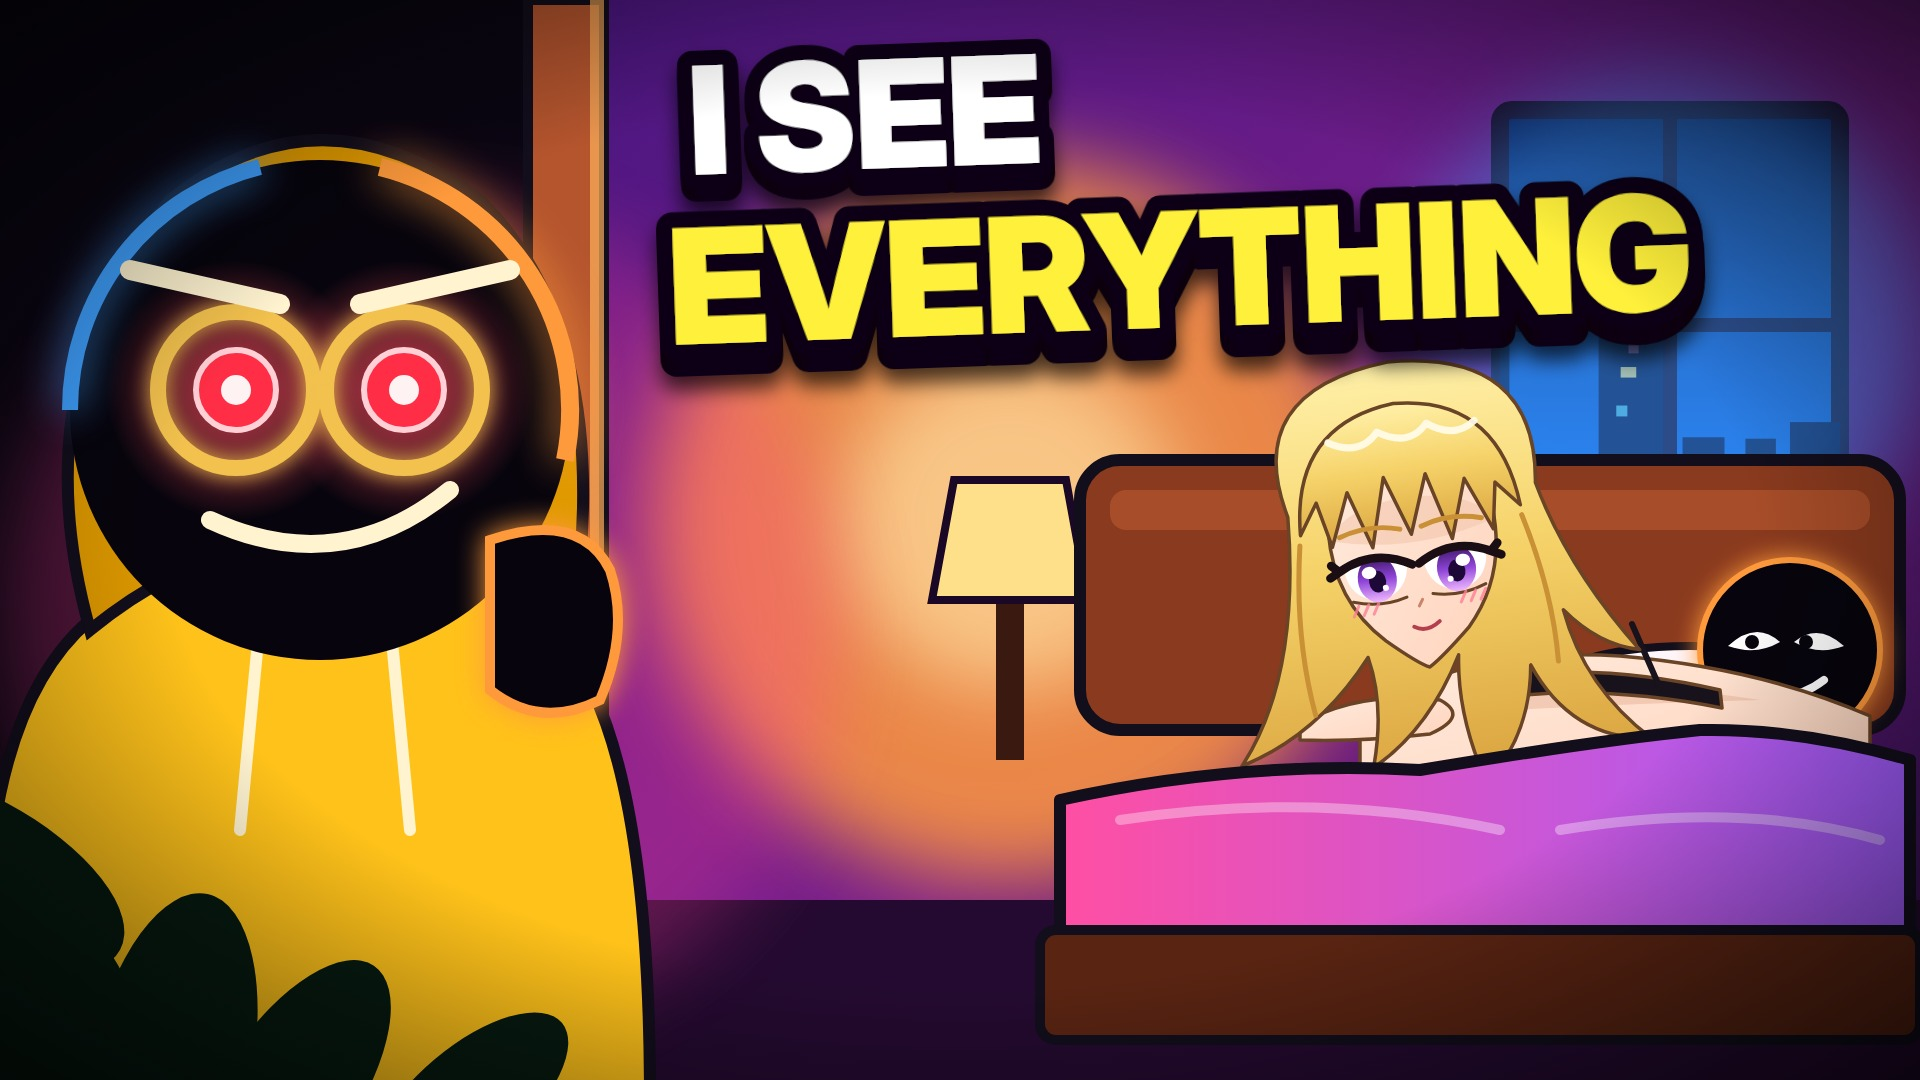
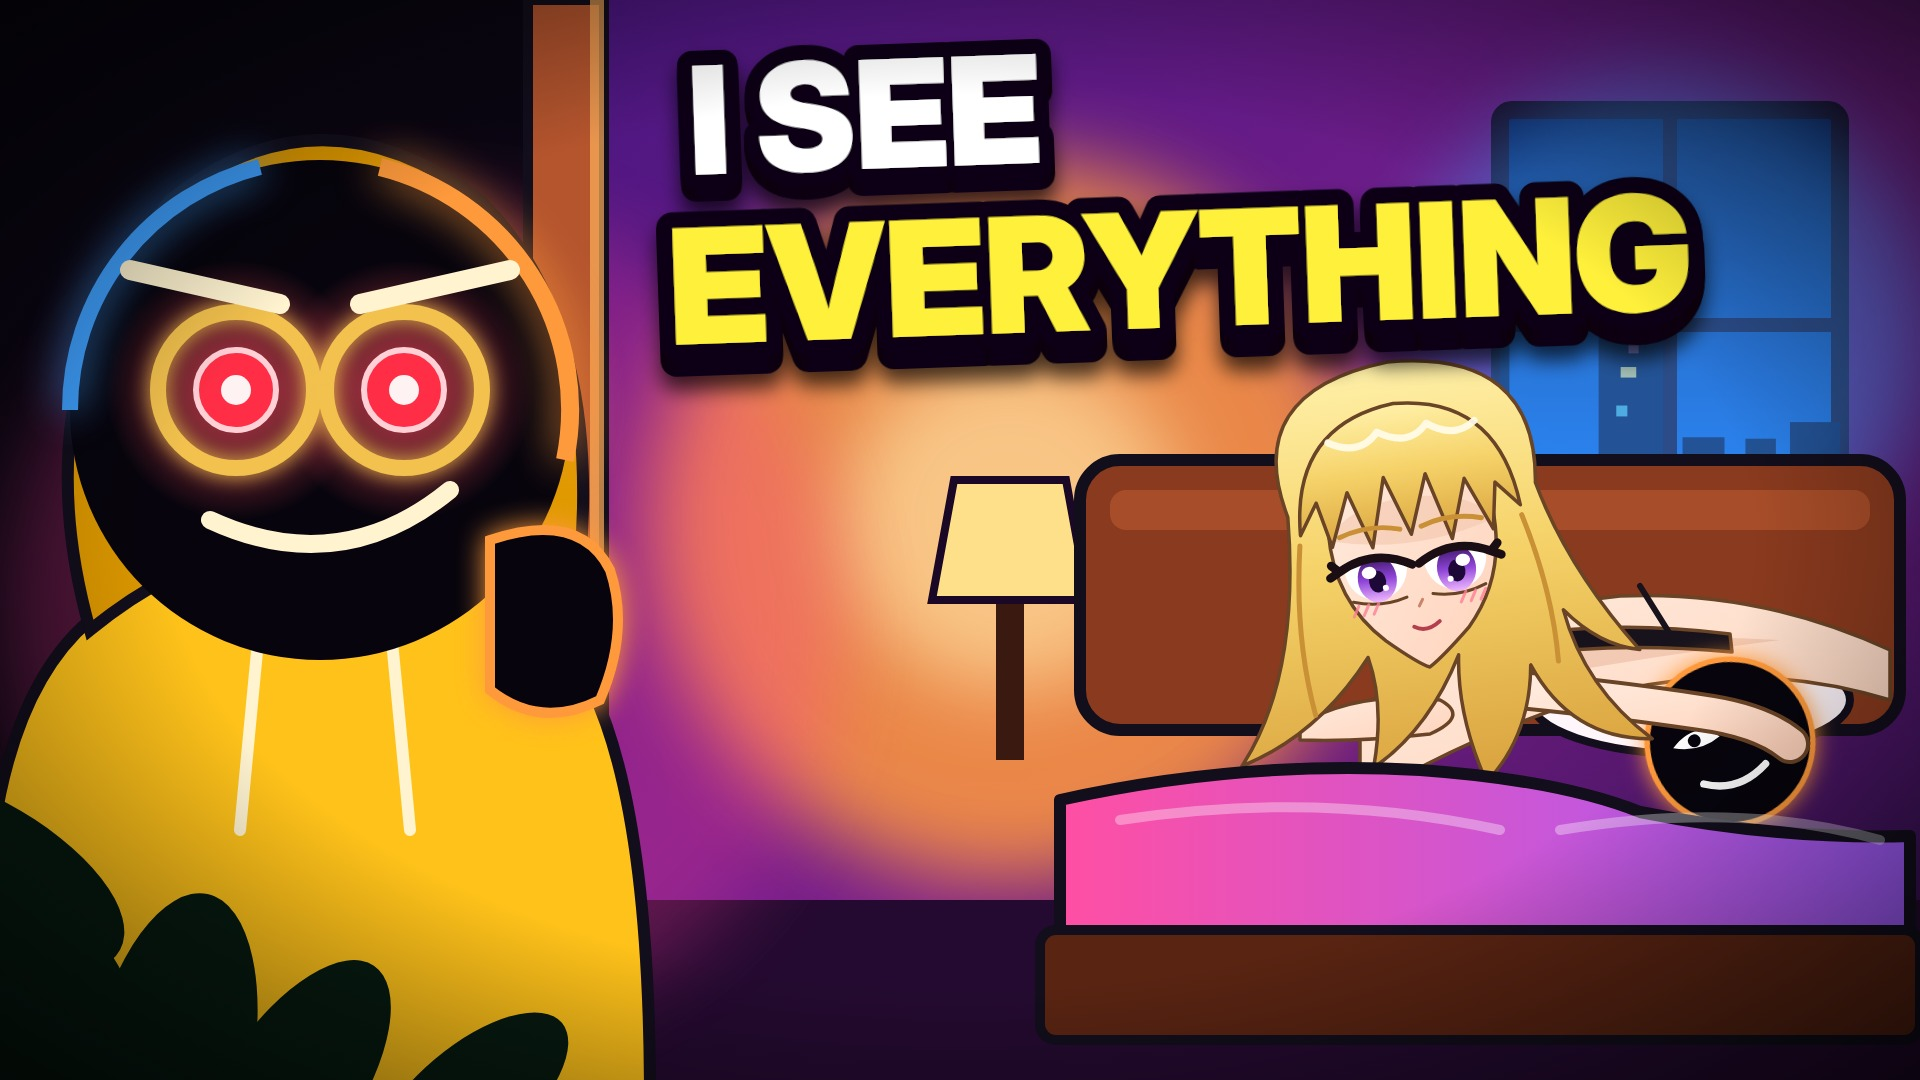
016 peek thumbnail: she lies over him, arm across him
Claude-Session: https://claude.ai/code/session_019ai2m2MxcJnxMHWqzPuaSF

Changed region(s): [[0.75, 0.4889, 1.0, 0.7944]]

diff --git a/episodes/016-invisible/thumb4.html b/episodes/016-invisible/thumb4.html
@@ -30,13 +30,6 @@ const th_bed=`
   <radialGradient id="gIris" cx="50%" cy="35%" r="70%"><stop offset="0" stop-color="#E8A0FF"/><stop offset=".55" stop-color="#8A3BD8"/><stop offset="1" stop-color="#3A0F66"/></radialGradient>
   <linearGradient id="gSkin" x1="0" y1="0" x2="1" y2="1"><stop offset="0" stop-color="#FFE3CC"/><stop offset="1" stop-color="#EDB48C"/></linearGradient>
  </defs>
- <!-- him: shadow stickman lying on the pillow, smirking at the door -->
- <g transform="translate(1790,650)">
-  <circle r="90" fill="#07040D" stroke="${W_}" stroke-width="6" style="filter:drop-shadow(0 0 12px ${W_})"/>
-  <path d="M-62 -4 Q-34 -30 -10 -8 Q-34 6 -62 -4Z M54 -4 Q28 -28 4 -8 Q28 6 54 -4Z" fill="#fff"/>
-  <circle cx="-38" cy="-8" r="7" fill="#07040D"/><circle cx="16" cy="-8" r="7" fill="#07040D"/>
-  <path d="M-36 40 Q0 56 34 30" stroke="#fff" stroke-width="8" fill="none" stroke-linecap="round"/>
- </g>
 
  <!-- her: Japanese anime style. Thin warm line art, cel shading, big half-lidded eyes, spiky bangs + shine band -->
  <defs>
@@ -46,13 +39,23 @@ const th_bed=`
  </defs>
  <!-- body lying on her stomach across the bed: bare back, thin black bra band -->
  <g stroke="#6A4426" stroke-width="3.5" stroke-linejoin="round" stroke-linecap="round">
-  <path d="M1360 712 Q1470 646 1620 656 Q1760 668 1870 716 L1870 800 L1360 800Z" fill="url(#aSkin)"/>
-  <path d="M1470 690 Q1600 676 1760 700 Q1620 704 1470 712Z" fill="#E9B79C" stroke="none" opacity=".55"/>
-  <path d="M1540 664 Q1600 694 1660 690" fill="none" opacity=".6"/>
-  <path d="M1500 678 Q1600 662 1720 690 L1722 708 Q1600 684 1498 698Z" fill="#17121C"/>
-  <path d="M1532 676 L1508 616 M1660 688 L1632 624" fill="none" stroke="#17121C" stroke-width="6"/>
+  <path d="M1360 712 Q1470 610 1620 596 Q1760 590 1890 650 L1890 700 Q1760 660 1620 690 Q1500 720 1360 800Z" fill="url(#aSkin)"/>
+  <path d="M1470 664 Q1600 630 1780 640 Q1620 660 1470 690Z" fill="#E9B79C" stroke="none" opacity=".55"/>
+  <path d="M1540 620 Q1600 646 1660 640" fill="none" opacity=".6"/>
+  <path d="M1500 640 Q1600 618 1730 634 L1732 652 Q1600 640 1498 660Z" fill="#17121C"/>
+  <path d="M1532 636 L1508 590 M1670 634 L1640 586" fill="none" stroke="#17121C" stroke-width="6"/>
   <path d="M1300 724 Q1360 690 1440 700 Q1470 716 1430 734 Q1360 742 1300 740Z" fill="url(#aSkin)"/>
  </g>
+ <!-- him: shadow stickman lying on the pillow, smirking at the door -->
+ <g transform="translate(1730,742) scale(.92) rotate(-10)">
+  <circle r="90" fill="#07040D" stroke="${W_}" stroke-width="6" style="filter:drop-shadow(0 0 12px ${W_})"/>
+  <path d="M-62 -4 Q-34 -30 -10 -8 Q-34 6 -62 -4Z M54 -4 Q28 -28 4 -8 Q28 6 54 -4Z" fill="#fff"/>
+  <circle cx="-38" cy="-8" r="7" fill="#07040D"/><circle cx="16" cy="-8" r="7" fill="#07040D"/>
+  <path d="M-36 40 Q0 56 34 30" stroke="#fff" stroke-width="8" fill="none" stroke-linecap="round"/>
+ </g>
+
+ <path d="M1520 690 Q1620 700 1700 712 Q1760 720 1790 744" fill="none" stroke="#6A4426" stroke-width="40" stroke-linecap="round"/>
+ <path d="M1520 690 Q1620 700 1700 712 Q1760 720 1790 744" fill="none" stroke="url(#aSkin)" stroke-width="32" stroke-linecap="round"/>
  <!-- head: three-quarter view, chin resting toward her hand -->
  <g transform="translate(1415,560) rotate(-8)" stroke="#6A4426" stroke-width="3.5" stroke-linejoin="round" stroke-linecap="round">
   <path d="M-120 -60 Q-150 -190 0 -200 Q150 -192 130 -60 Q150 30 210 120 Q170 110 140 70 Q150 150 210 210 Q130 200 100 120 Q90 190 40 230 Q20 160 30 100 Q-10 170 -70 200 Q-50 140 -60 90 Q-120 160 -200 180 Q-130 100 -120 -60Z" fill="url(#aHair)"/>
@@ -73,7 +76,7 @@ const th_bed=`
   <path d="M-10 66 Q2 74 16 64" fill="none" stroke="#B4404F" stroke-width="4"/>
   ${[-1,1].map(d=>`<g transform="translate(${d*54},44)" stroke="#FF7F98" stroke-width="3" opacity=".8"><path d="M-14 4 l6 -10 M-4 4 l6 -10 M6 4 l6 -10"/></g>`).join('')}
  </g>
- <path d="M1060 800 Q1240 760 1420 770 Q1600 740 1700 730 Q1800 728 1910 760 L1910 960 L1060 960Z" fill="url(#thSheet)" stroke="${INK}" stroke-width="12" stroke-linejoin="round"/>
+ <path d="M1060 800 Q1240 760 1420 770 Q1560 780 1640 812 Q1780 840 1910 836 L1910 960 L1060 960Z" fill="url(#thSheet)" stroke="${INK}" stroke-width="12" stroke-linejoin="round"/>
  <path d="M1120 820 Q1320 790 1500 830 M1560 830 Q1740 800 1880 840" stroke="#FFFFFF" stroke-opacity=".35" stroke-width="10" fill="none" stroke-linecap="round"/>
  <rect x="1040" y="930" width="880" height="110" rx="16" fill="#5A2412" stroke="${INK}" stroke-width="10"/>`;
 const th_door=`
